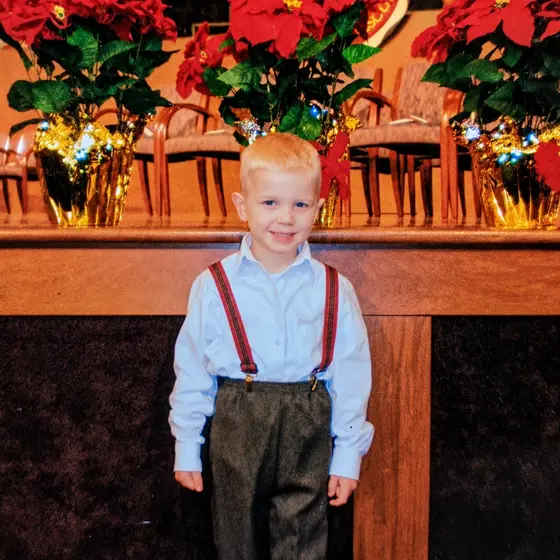
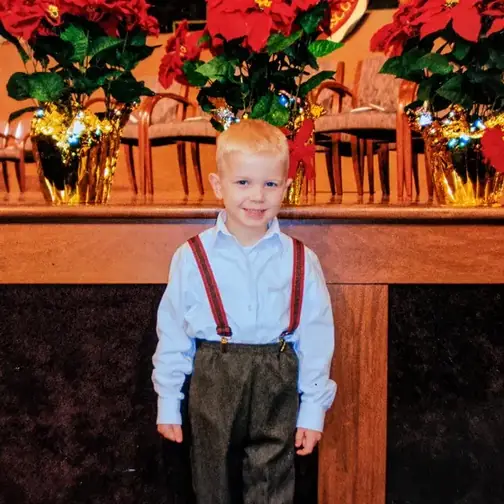
perf: compress all site images 28%, refresh sitemap, add sitemap head link

diff --git a/index-src.html b/index-src.html
@@ -8,6 +8,7 @@
 <meta name="author" content="Ashton Stubblefield (Ash Stu)"/>
 <meta name="theme-color" content="#084C61"/>
 <link rel="canonical" href="https://ashstu.media/"/>
+<link rel="sitemap" type="application/xml" title="Sitemap" href="https://ashstu.media/sitemap.xml"/>
 <meta property="og:site_name" content="Ash Stu"/>
 <meta property="og:title" content="Ash Stu Media by Ashton Stubblefield"/>
 <meta property="og:description" content="The official site of Ash Stu Media (Ashton Stubblefield): outsider-folk songs, music videos, and journal essays from Guthrie, Oklahoma. Stream and book the artist."/>

diff --git a/index.html b/index.html
@@ -8,6 +8,7 @@
 <meta name="author" content="Ashton Stubblefield (Ash Stu)"/>
 <meta name="theme-color" content="#084C61"/>
 <link rel="canonical" href="https://ashstu.media/"/>
+<link rel="sitemap" type="application/xml" title="Sitemap" href="https://ashstu.media/sitemap.xml"/>
 <meta property="og:site_name" content="Ash Stu"/>
 <meta property="og:title" content="Ash Stu Media by Ashton Stubblefield"/>
 <meta property="og:description" content="The official site of Ash Stu Media (Ashton Stubblefield): outsider-folk songs, music videos, and journal essays from Guthrie, Oklahoma. Stream and book the artist."/>
